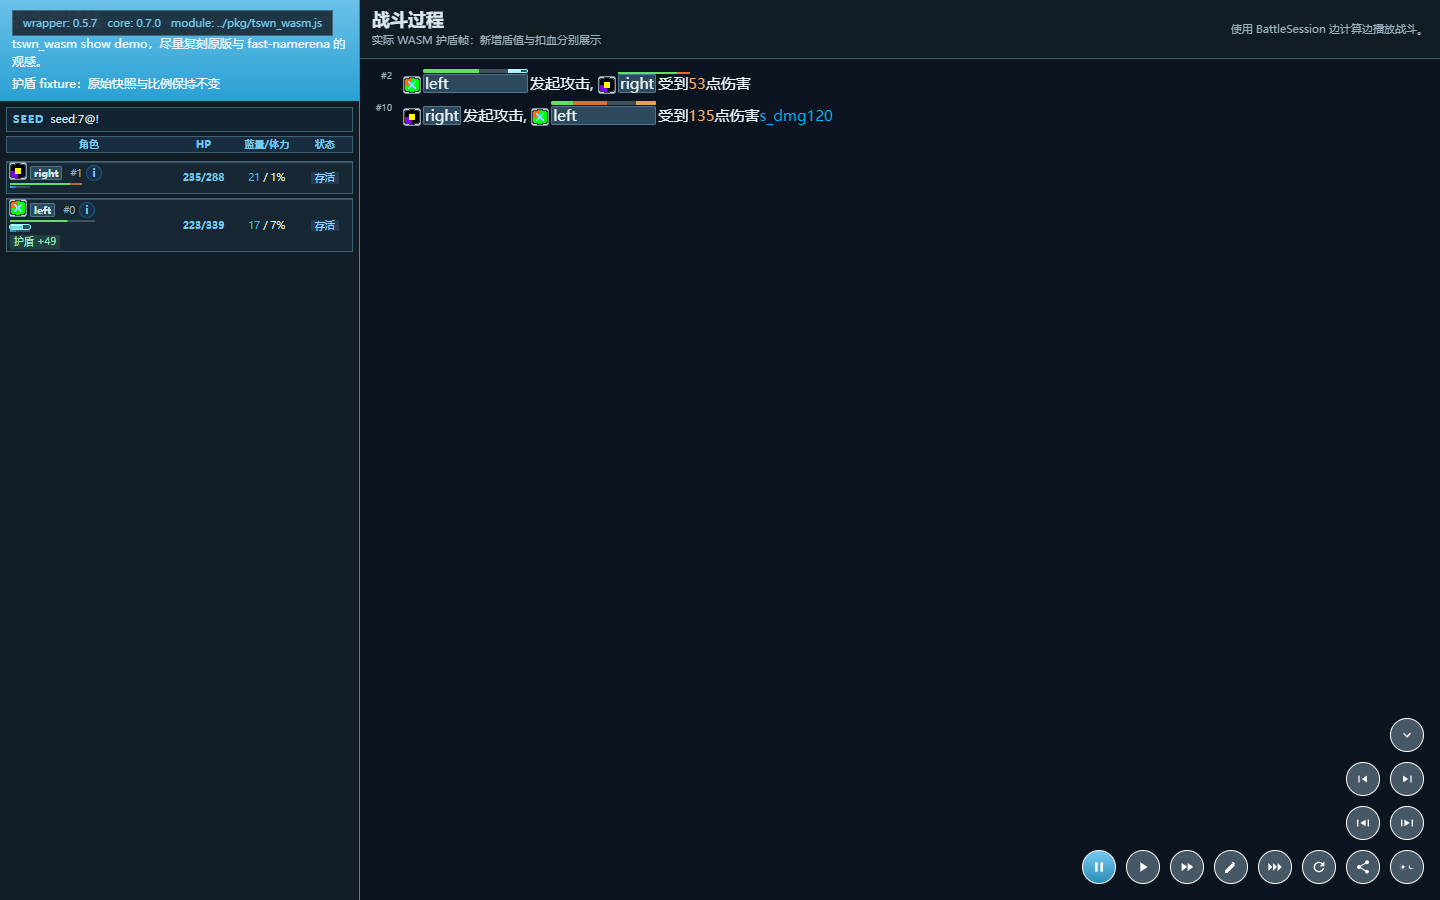
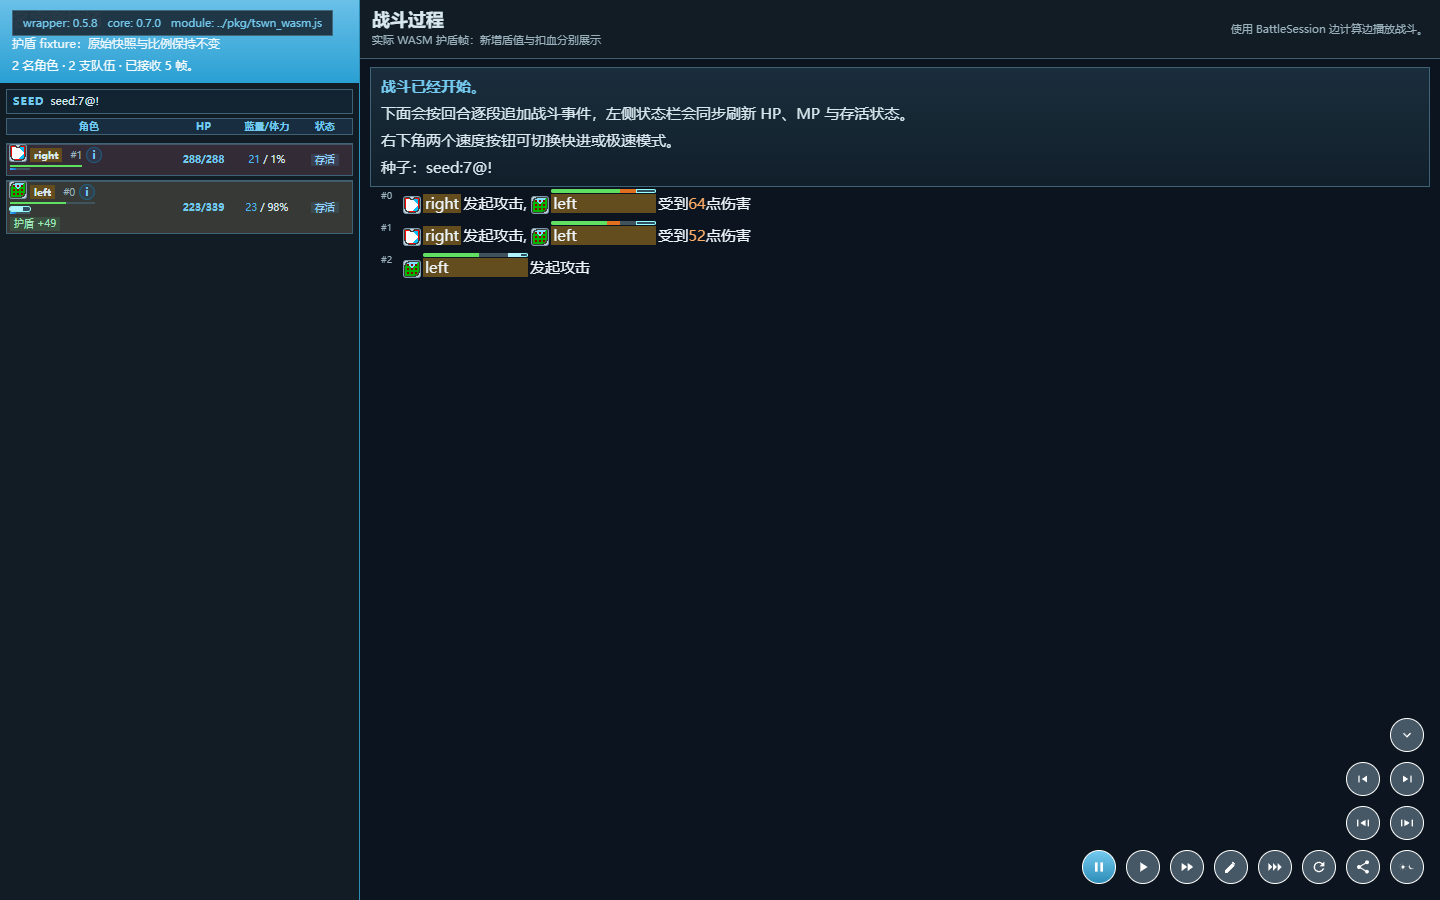
fix(wasm): 深色模式名字改用深黄牛皮纸底色并去掉描边
深色模式的名字框此前是蓝灰底色 #2c495d 加一圈 1px 内描边，既与页面配色不搭，
也在名字与正文之间留下硬边。现在侧栏 `.name` 与正文 `.actor-name` 共用深黄
牛皮纸色 `#634d1f`，并删除名字与阵亡名字的 inset 描边规则，只靠底色本身与
页面区分；深色对比度仍满足 `show-theme.test.mjs` 的既有阈值（正文 ≥ 7:1、
名字框与页面 ≥ 1.7:1）。

盾条相关的其余外观（拼在体力条右侧、按 `max_shield` 熟练度定长、常驻显示、
浅色新增区段配色）随本次拉取的上游 0.5.7 已经生效，这里只同步示例说明，并用
重建后的分发包重新生成两张深色验收截图。

验证：`node --test crates/tswn_wasm/tests/show-*.test.mjs`（37 项）、
`node --experimental-vm-modules scripts/verify_web_playback.mjs`（8 组页面行为）、
`cargo test -p tswn_core -p tswn_wasm -p tswn_test`、`cargo +nightly fmt --check`。

Changed region(s): [[0.0, 0.0311, 1.0, 0.3111]]

diff --git a/crates/tswn_wasm/examples/show-base.css b/crates/tswn_wasm/examples/show-base.css
@@ -71,10 +71,11 @@
     --border: rgba(76, 119, 139, 0.75);
     --border-soft: rgba(76, 119, 139, 0.55);
     --muted: #9bb2bd;
-    --name-bg: #2c495d;
+    /* 名字底色用深黄牛皮纸色，靠底色本身和正文区分，不再描边。 */
+    --name-bg: #634d1f;
     --dead-bg: #394550;
     --dead-text: #c3cdd5;
-    --message-bg: #2c495d;
+    --message-bg: #634d1f;
     --message-text: #edf5fa;
     --message-shadow: transparent;
     --damage: #ffad66;
@@ -97,20 +98,8 @@
     border-radius: 2px;
 }
 
-:root[data-theme="dark"] .name,
-:root[data-theme="dark"] .actor-name {
-    box-shadow: inset 0 0 0 1px #54758b;
-    border-radius: 2px;
-}
-
 :root[data-theme="dark"] .actor-name.namedie {
     color: var(--dead-text);
-}
-
-:root[data-theme="dark"] .name.namedie,
-:root[data-theme="dark"] .actor-name.namedie,
-:root[data-theme="dark"] .summary-actor-name.is-dead {
-    box-shadow: inset 0 0 0 1px #647381;
 }
 
 :root[data-theme="dark"] .detail-pill,

diff --git a/crates/tswn_wasm/examples/README.md b/crates/tswn_wasm/examples/README.md
@@ -48,7 +48,7 @@
 - 召唤单位（clone / summon / shadow / zombie）会按类型显示对应的中文名；分身名字里的编号使用底层 `display_index`，左侧仍单独保留 `#playerId`。
 - 只消费 `BattleReplayFrame.rows[].clips[]` 结构化 replay view，由 WASM 提供延迟、文本片段、血条变化、死亡特效和侧栏快照信息；战斗正文不再从 `message_template` / `message_rendered` / `hp_delta` 反推展示语义。
 - normal 播放模式下，对战结束后等待 `1500ms` 再显示底部结算表；fast / turbo / 单步跳转保持即时显示。左侧玩家 HP 条变化使用较慢动画，方便观察血量变化。
-- 页面与角色详情面板跟随明暗主题切换。深色模式使用更清晰的蓝灰名字框、可读的死亡名字和状态标签；像素图标保留原图配色，通过浅色衬底区分原图的深色描边。
+- 页面与角色详情面板跟随明暗主题切换。深色模式的名字（侧栏 `.name`、正文 `.actor-name`）改用深黄牛皮纸底色并去掉描边，死亡名字和状态标签保持可读；像素图标保留原图配色，通过浅色衬底区分原图的深色描边。
 - `show-wasm.js` 通过 `createBattleStreamSource()` 创建 `BattleSession`；页面先展示初始状态，再由 `BattleStreamController` 按需获取 core 提供的 `rows/clips/parts`。
 
 #### 控制栏快捷键
